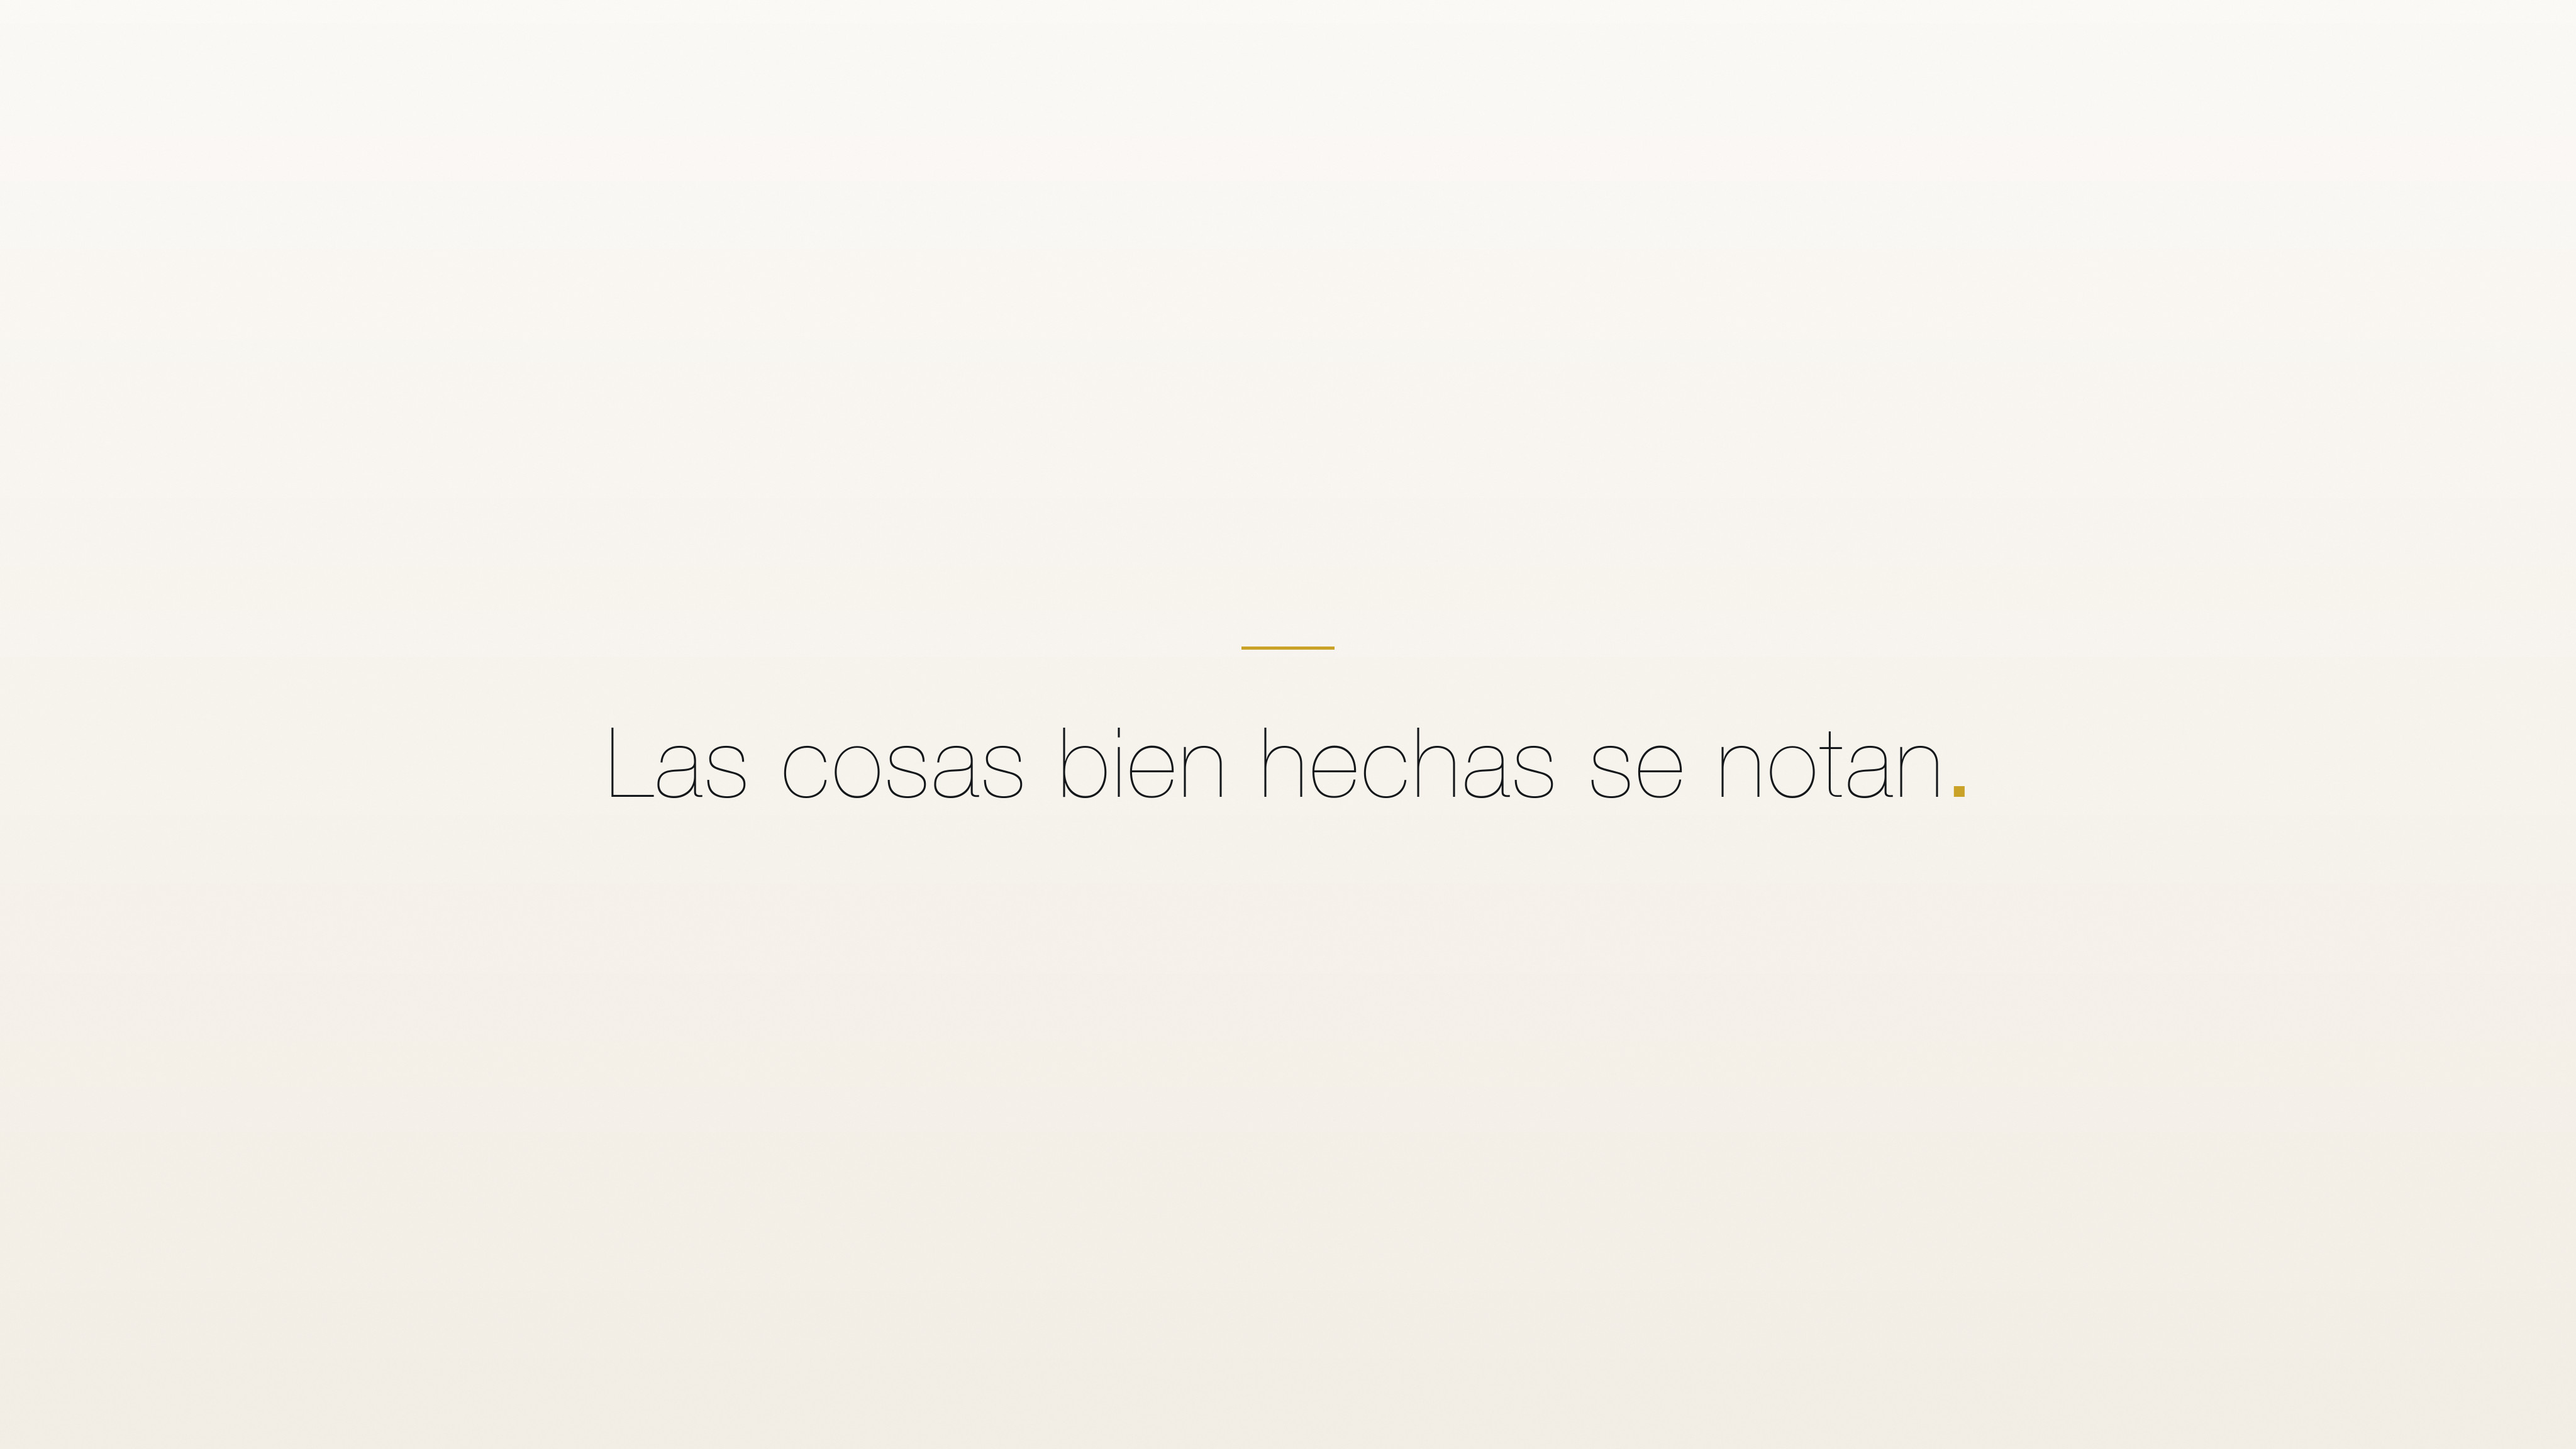
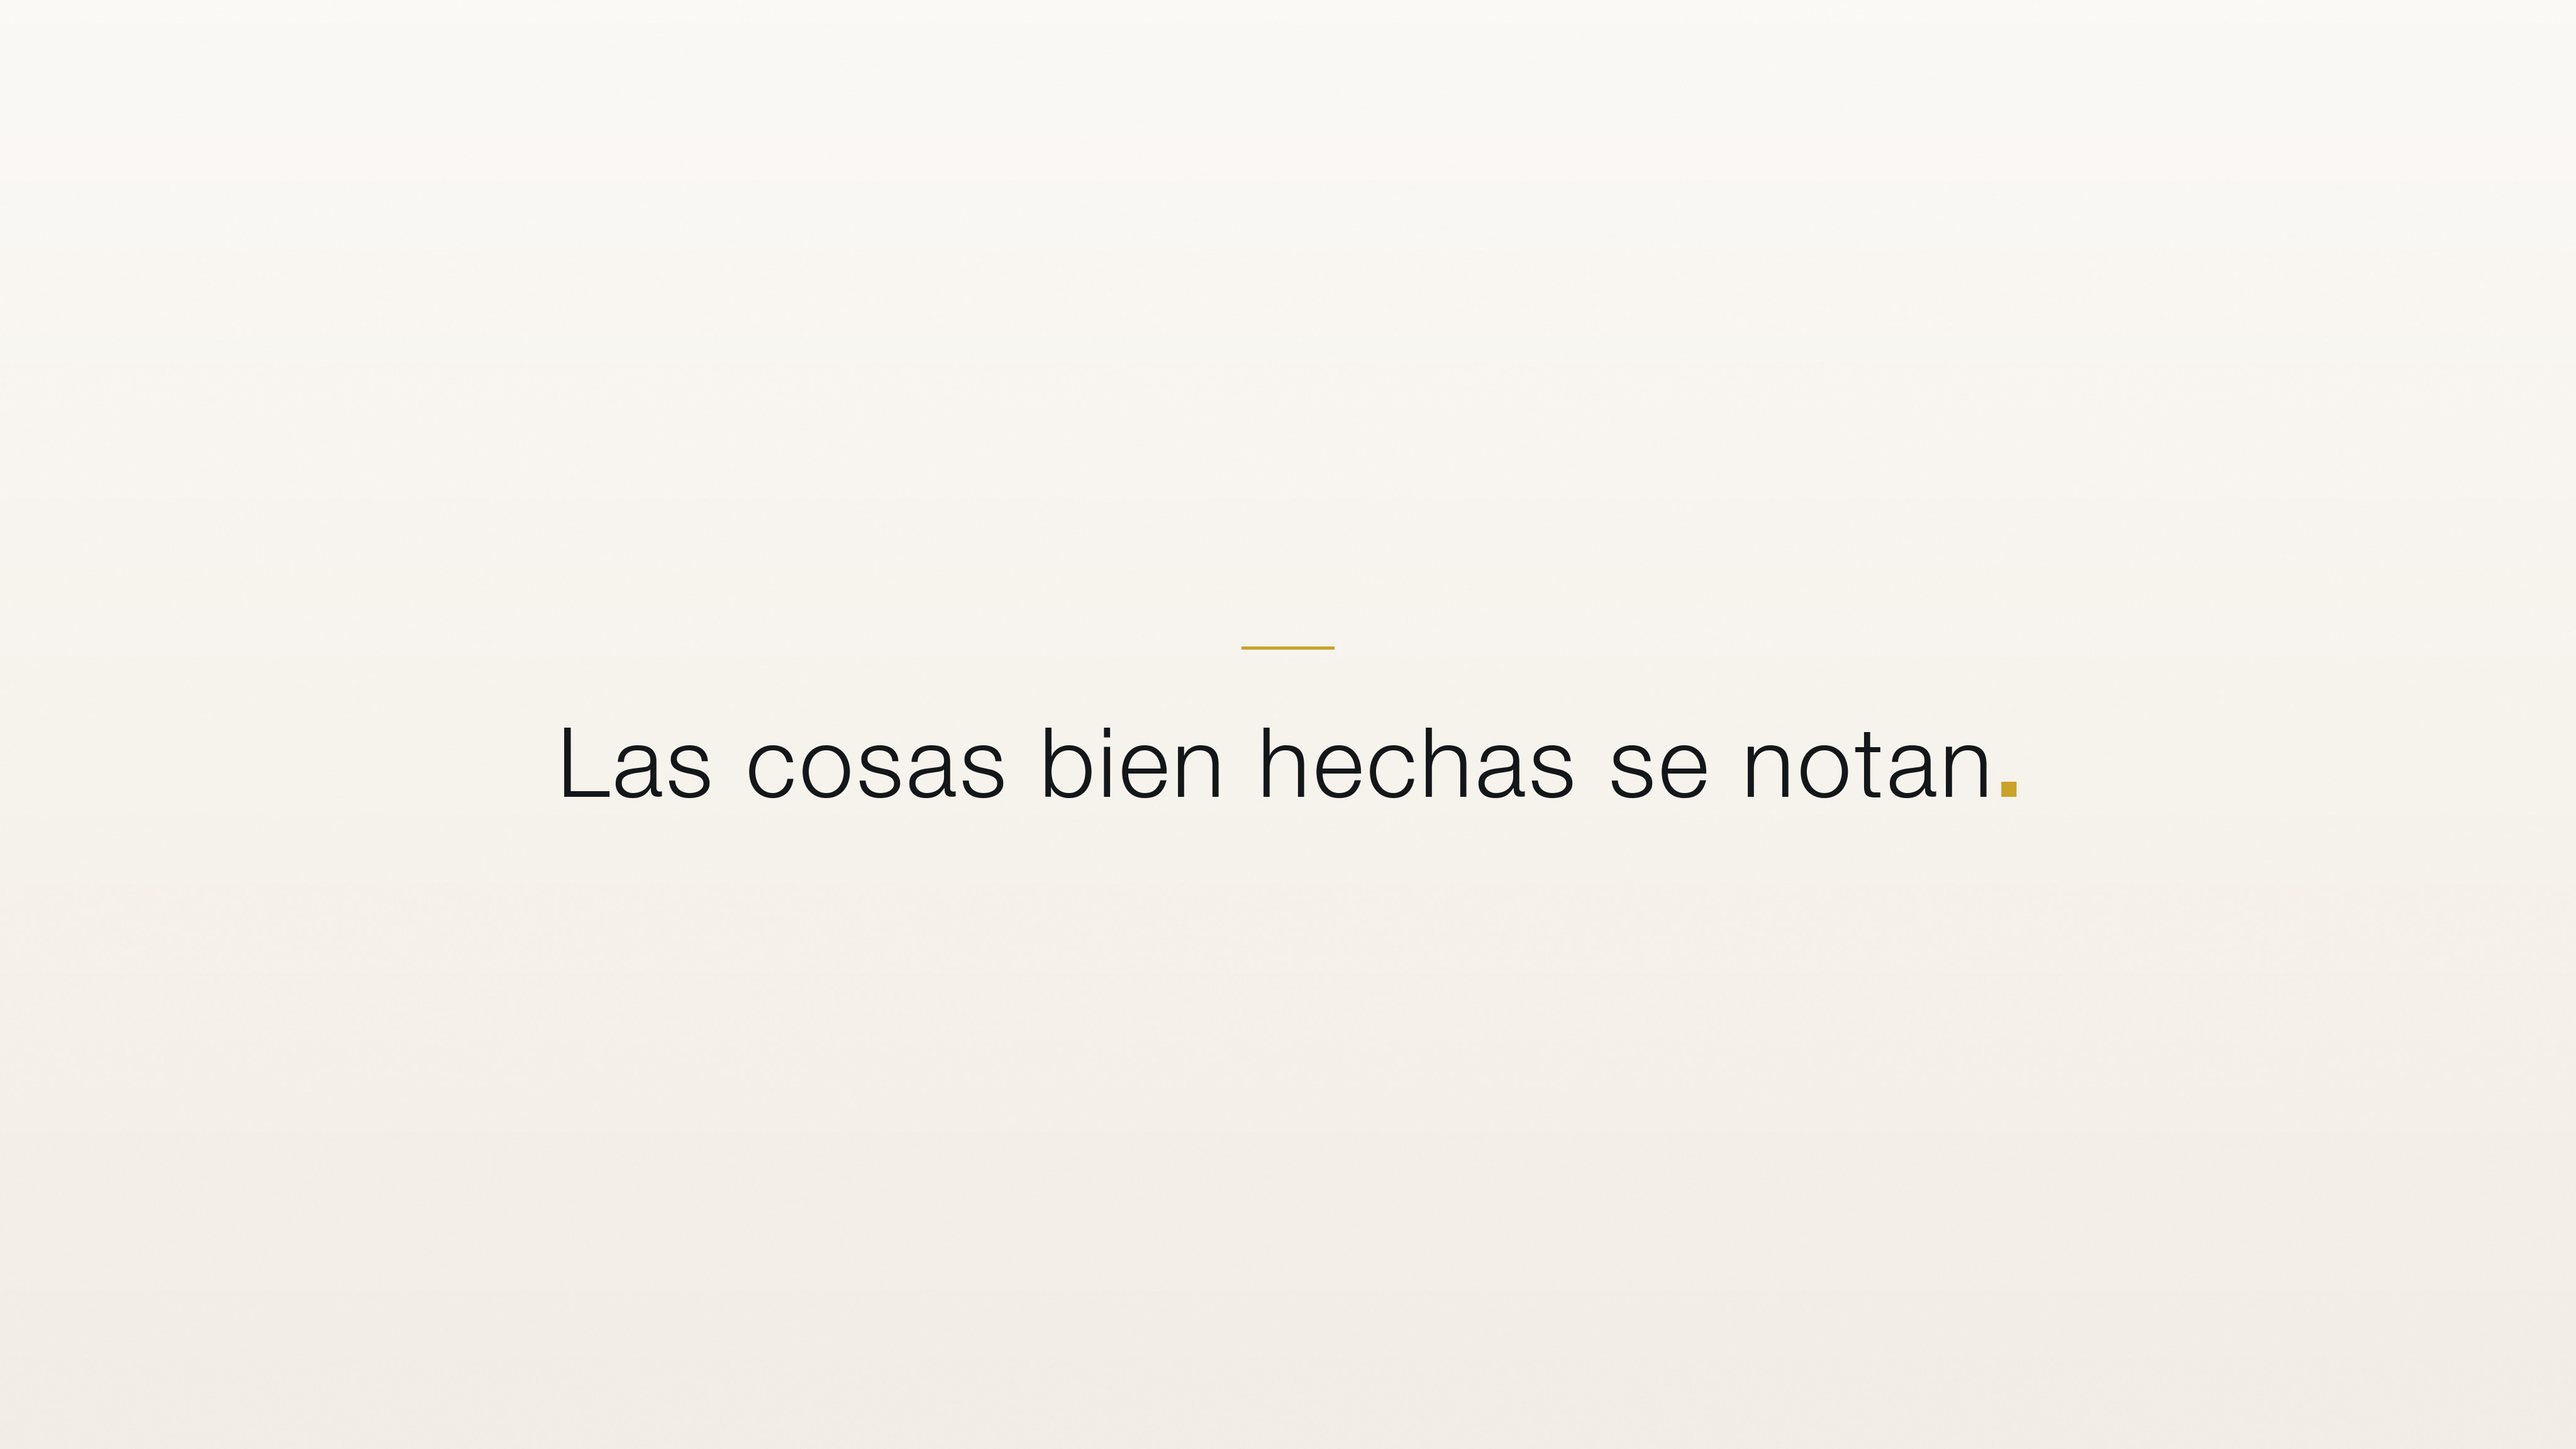
Sube el peso del titular de la cabecera
Simulada a tamano real, la frase se lavaba: Play recorta la cabecera a
una banda de ~2.6:1 y en un movil de 1080 px acaba midiendo unos 30 px
de alto. A ese tamano el UltraLight es un pelo y pesaba menos que el
nombre que la propia tienda pinta en negrita justo debajo, con lo que la
jerarquia quedaba invertida.

Pasa a Light y sube el cuerpo. Sigue siendo minimal, pero ahora se
sostiene donde de verdad se mira.

Changed region(s): [[0.2188, 0.5, 0.7812, 0.5625]]

diff --git a/scripts/gen_perfil_tienda.py b/scripts/gen_perfil_tienda.py
@@ -105,19 +105,21 @@ def header() -> None:
     d = ImageDraw.Draw(img)
     cx, cy = W // 2, H // 2
 
-    # UltraLight y con aire entre letras: a este tamano es lo que separa un
-    # titular cuidado de un texto puesto ahi.
-    tam = 190
-    tracking = 4.0
-    f = fuente(tam, indice=5)
+    # Light y no UltraLight: Play recorta la cabecera a una banda de ~2.6:1
+    # y en un movil de 1080 px la frase acaba midiendo unos 30 px de alto.
+    # A ese tamano el UltraLight se lava y pesa menos que el nombre que la
+    # propia tienda pinta en negrita justo debajo.
+    tam = 250
+    tracking = 5.0
+    f = fuente(tam, indice=7)
     # 0.52 y no mas: Play recorta la cabecera y a un 64% del ancho la frase
     # ya rozaba los bordes.
-    while ancho_espaciado(d, FRASE, f, tracking) > W * 0.52 and tam > 70:
+    while ancho_espaciado(d, FRASE, f, tracking) > W * 0.56 and tam > 70:
         tam -= 4
-        f = fuente(tam, indice=5)
+        f = fuente(tam, indice=7)
 
     # El punto va aparte y en oro: es el mismo remate que la "R." del icono.
-    punto = fuente(tam, indice=0)
+    punto = fuente(tam, indice=1)
     ancho = ancho_espaciado(d, FRASE, f, tracking) + d.textlength(".", font=punto)
 
     # El bloque va del filete a la linea base: se centra ese conjunto, no
